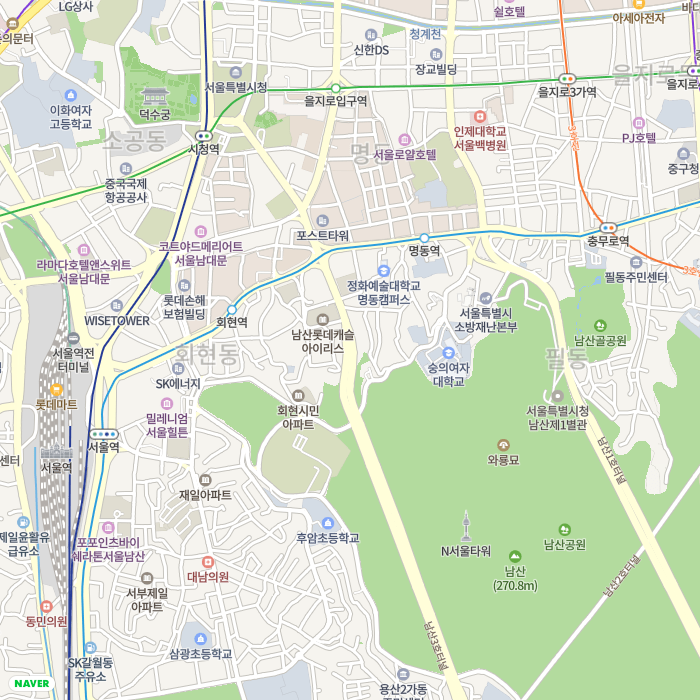
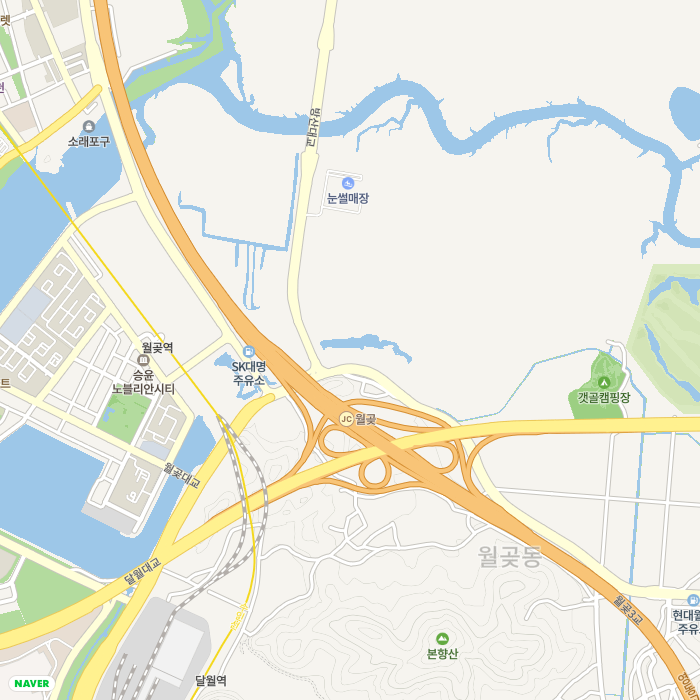
Naver Service Updated
Now the naver map moves freely in the same resolution
NaverSearch bug fix:
   now there's no 'out of range' error to search button update

diff --git a/NaverMaps.py b/NaverMaps.py
@@ -21,6 +21,7 @@ Width = 700
 LEVEL = 14
 DIFF = 2660
 mapx, mapy = 287975, 527209
+markx,marky = 287975, 527209
 
 # tkinter img value
 label = None
@@ -29,7 +30,7 @@ img = None
 display = None
 
 #command value
-x, y = 0, 0
+x, y = 700, 700
 old_event = None
 #vlues end
 
@@ -47,7 +48,7 @@ def SetNMapMarker(x, y):
 
 def getMapDataFromCoordinate(x, y,isMarker):
     coordinate = str(x) + ',' + str(y)
-    marker = SetNMapMarker(x, y)
+    marker = SetNMapMarker(markx, marky)
     global server, conn, client_id, client_secret, CRS, Height, Width, LEVEL
     if isMarker:
         url = userURLBuilder('https://naveropenapi.apigw.ntruss.com/map-static/v2/raster', crs=CRS, h=str(Height),
@@ -70,11 +71,6 @@ def getMapDataFromCoordinate(x, y,isMarker):
         return None
 
 
-def combineMapImg(imglist):
-
-    return img
-
-
 def NMapRender(x, y):
     global label, img, imgpart
 
@@ -87,10 +83,9 @@ def NMapRender(x, y):
             if i == 1 and j == 1:
                 dataimg = getMapDataFromCoordinate(tempX, tempY, True)
             imgpart.append(Img.open(BytesIO(dataimg)))
-            with open("./img/map" + str(i*3+j) + ".png", 'wb') as f:
-                f.write(dataimg)
+#            with open("./img/map" + str(i*3+j) + ".png", 'wb') as f:
+#                f.write(dataimg)
     print("이미지 병합중")
-    del(img)
     img = Img.new('RGB', (2100, 2100))
     for i in range(3):
         for j in range(3):
@@ -98,52 +93,48 @@ def NMapRender(x, y):
     img.save("./img/MAP.png")
     display = img.crop((700, 700, 1400, 1400))
 
-    NMapimage = ImageTk.PhotoImage(img)
+    NMapimage = ImageTk.PhotoImage(display)
     label.image = NMapimage
     label.configure(image=NMapimage)
     print("지도 갱신 완료")
 
 def NMapInit(frameName):
     global label, img, mapx, mapy
-    #초기값은 산기대
 
     label = Label(frameName, width=Width, height=Height)
     label.place(x=0, y=0)
 
     NMapRender(mapx, mapy)
 
-
-
-    label.bind_all("<Up>", Keyboard)
-    label.bind_all("<Down>", Keyboard)
-    label.bind_all("<Left>", Keyboard)
-    label.bind_all("<Right>", Keyboard)
     label.bind("<B1-Motion>", MouesMovement)
     label.bind("<ButtonRelease-1>", UpdateMap)
 
-def Keyboard(event):
-    print("Keyboard Func has Called!")
-    global x, y
-    if event.keysym == 'Down':
-        pass
-    elif event.keysym == 'Up' and y > 0:
-        pass
-    elif event.keysym == 'Right':
-        pass
-    elif event.keysym == 'Left' and x > 0:
-        pass
-
 
 def UpdateMap(event):
-    global x, y
-    NMapRender(x, y)
+    global x, y, old_event, mapx, mapy
+    mapx += int(((x-700))*DIFF/700)
+    mapy -= int(((y-700))*DIFF/700)
+    old_event = None
+    x, y = 700, 700
+    NMapRender(mapx, mapy)
 
 def MouesMovement(event):
     global x, y, old_event
     print("Mouse Func has Called!")
-
-
+    if old_event != None:
+        dx, dy = event.x - old_event.x, event.y - old_event.y
+        x = max(0, min(x - dx, 1400))
+        y = max(0, min(y - dy, 1400))
     old_event = event
+    MovImg()
+
+def MovImg():
+    global img, label
+    display = img.crop((x, y, x+700, y+700))
+    NMapimage = ImageTk.PhotoImage(display)
+    label.image = NMapimage
+    label.configure(image=NMapimage)
+
 
 #mapx = 310269
 #mapy = 551875

diff --git a/NaverSearch.py b/NaverSearch.py
@@ -116,6 +116,8 @@ def getNaverSearchData(searchkwrd):
 
 def getXYandSentToNMap(text):
     global searchResult
+    if text == '':
+        return
     strs = []
     strs = text.split(' ')
     strs[0] = strs[0].replace('[', '')
@@ -123,6 +125,8 @@ def getXYandSentToNMap(text):
     num = int(strs[0])
     x = int(searchResult[num]['mapx'])
     y = int(searchResult[num]['mapy'])
+    NaverMaps.markx = x
+    NaverMaps.marky = y
     NaverMaps.NMapRender(x, y)
 
 
@@ -196,12 +200,14 @@ def NaverSearchfunc():
         NSearchResultTxt.append(text)
         if searchResult[i] == searchResult[-1]:
             break
+    max = None
     for i in range(7):
-        NSearchButtons[i].configure(text=NSearchResultTxt[i])
-        if searchResult[i] == searchResult[-1]:
-            for j in range(i + 1, 7):
-                NSearchButtons[i].configure(text='')
-            break
+        if max == None:
+            NSearchButtons[i].configure(text=NSearchResultTxt[i])
+            if searchResult[i] == searchResult[-1]:
+                max = i
+        else:
+            NSearchButtons[i].configure(text='')
 
 
 #while True:

diff --git a/Map.py b/Map.py
@@ -70,7 +70,7 @@ def mousemove(e):
     if olde != None:
         dx, dy = e.x - olde.x, e.y - olde.y
         if abs(dx) + abs(dy) > 100:
-            dx,dy=0,0
+            dx, dy = 0, 0
         x = max(0, min(x-dx, scale*230))
         y = max(0, min(y-dy, scale*190))
         print(dx, dy)
